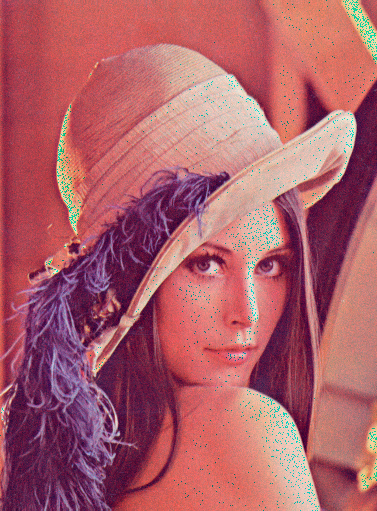
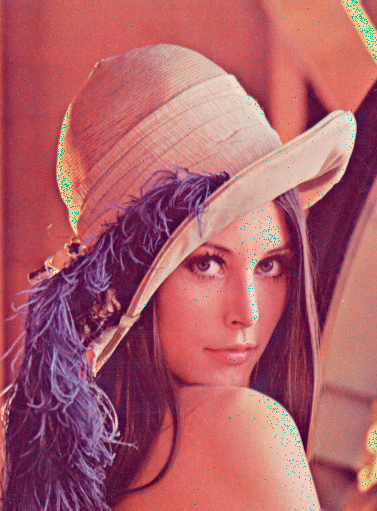
Finish PS0

Changed region(s): [[0.0, 0.0, 1.0, 1.0]]

diff --git a/ps0_python/ps0_5.py b/ps0_python/ps0_5.py
@@ -2,9 +2,9 @@ import cv2
 from matplotlib import pyplot as plt
 import numpy as np
 
-PATH = "ProblemSets/ps0_python/output/"
+PATH = "output/"
 
-img = cv2.cvtColor(cv2.imread(PATH+"ps0-1-a-2.png", cv2.IMREAD_UNCHANGED), cv2.COLOR_BGR2RGB)
+img = cv2.cvtColor(cv2.imread(PATH+"ps0-1-a-1.png", cv2.IMREAD_UNCHANGED), cv2.COLOR_BGR2RGB)
 
 row, col, ch = img.shape
 
@@ -47,11 +47,11 @@ plt.imshow(img)
 
 plt.subplot(1,4,2)
 plt.imshow(img1)
-# plt.imsave(PATH+"ps0-5-a-1.png", img1)
+plt.imsave(PATH+"ps0-5-a-1.png", img1)
 
 plt.subplot(1,4,3)
 plt.imshow(img2)
-# plt.imsave(PATH+"ps0-5-b-1.png", img1)
+plt.imsave(PATH+"ps0-5-b-1.png", img2)
 
 plt.subplot(1,4,4)
 plt.imshow(img3)
